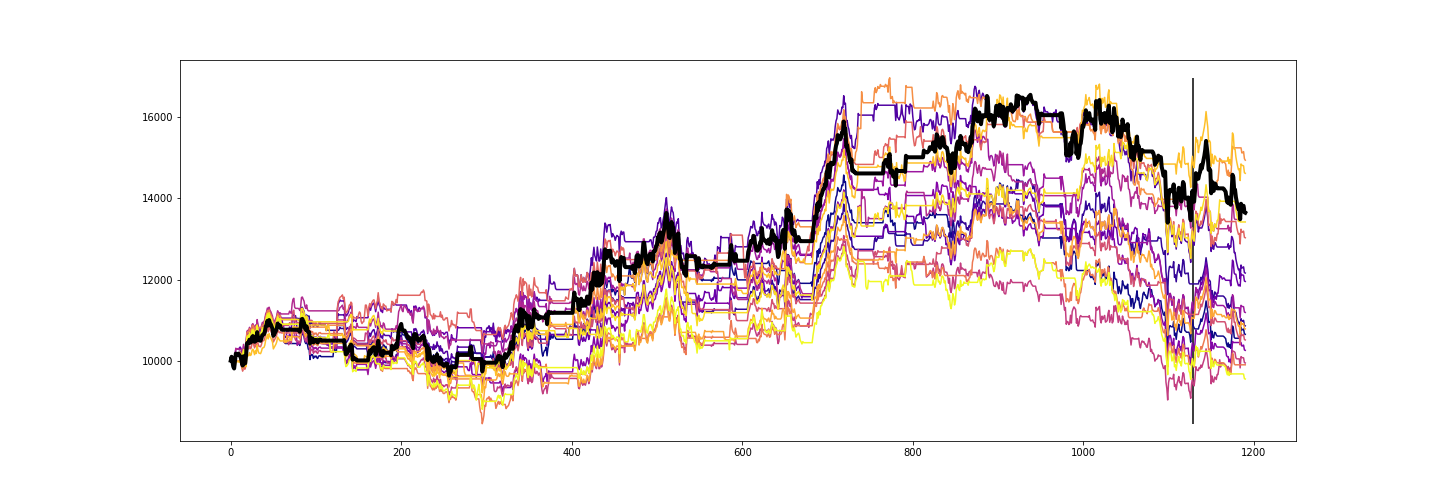
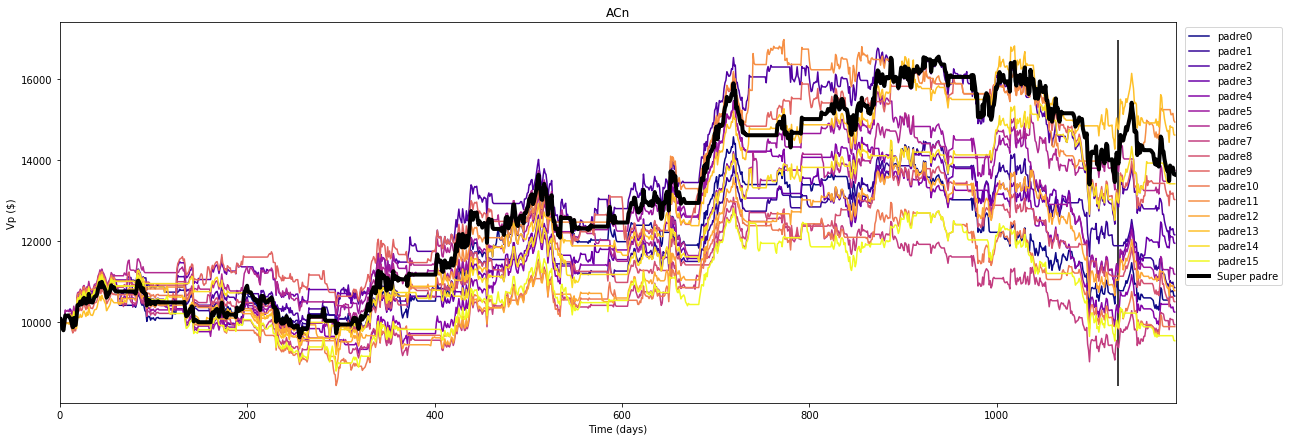
Modificacion para generación de figuras comparativas
- Incorporacion de las funciones creadas a la clase mylib

- Modificacion de simulacion_v2_prueba.py para que no se requiera correr archivos adicionales.

diff --git a/Code/simulacion_v2_prueba.py b/Code/simulacion_v2_prueba.py
@@ -6,26 +6,91 @@ Created on Thu Mar  7 08:53:21 2019
 @author: fh
 """
 
+#Librerias a usar
+import numpy as np
+import pandas as pd
+import matplotlib.pyplot as plt
+import pickle
+from mylib import mylib
+portafolio_sim = mylib.portafolio_sim
+
+
+#%% Cargar resultados anteriores
+
+# Cargar resultados obtenidos del algoritmo genetico
+[p,a,m,hist,m_hist] = pickle.load(open('genetico.sav','rb'))
+
+# Obtención del super padre
+m0 = m.mean(axis=0) 
+lim = .35
+m0[np.abs(m0)<=lim] = 0
+m0[m0< -lim] = -1
+m0[m0>lim] = 1
+
+# Cargar el modelo de clasificacion (KMeans) ya enetrenado
+model_close = pickle.load(open('model_close.sav','rb'))
+
+
+#%% Cargar datos y calcular las situaciones del archivo deseado
+
+# Cargar los datos
+archivo = 'WALMEXn'
+data = pd.read_csv('../Data/'+archivo+'.csv', index_col=0)
+
+# Crear la ventanas para el analisis
+ndias = [5,20,40,125]
+vent = []
+for i in ndias:
+    vent.append(mylib.crear_ventanas(data['Close'],i))
+
+
+# Normalizar las ventas
+cont = len(ndias)    
+for i in range(cont):
+    vent[i] = np.transpose((vent[i].transpose()-vent[i].mean(axis=1))/vent[i].std(axis=1))
+    
+# Clasificacion de las ventanas usando el modelo KMeans entrenado
+clasif_close = []
+for i in range(cont):
+    clasif_close.append(model_close[i].predict(vent[i]))
+
+# Elegir el mismo numero de clasificaciones para las diferentes ventanas
+for i in range(cont):
+    clasif_close[i]=clasif_close[i][len(vent[i])-len(vent[-1]):]
+    
+# Crear el ventor de situaciones
+sit = np.zeros(len(clasif_close[0]))
+for i in range(cont):
+    sit += clasif_close[i]*4**i
+
+# Tomar los precios que se utilizaran para la simulacion
+precio = data.Close[-len(sit):]
+
+#%% Realizar la simulacion de cada padres y el super padre
 # Probar los 16 vectores en una sola acción. 
 # Es requerido haber corrido Simulacion_v2 con return(Vp)
-
 
 n = 16 # número de gráficas
 Vp = np.zeros((n,len(sit)))
 for i in np.arange(len(m)):
     Vp[i,:] = portafolio_sim(precio,sit,m[i])
 Vp_m0 = portafolio_sim(precio,sit,m0)
-#%%    
+#%% Realizar la grafica de los resultados de todas las simulaciones
 Fig = plt.figure(figsize=(20,7))
 cmap = plt.cm.plasma # también se puede plt.get_cmap('plasma')
 colors = cmap(np.linspace(0,1,n))
 for i in np.arange(n):
-    plt.plot(Vp[i,:], c=colors[i,:])
-plt.plot(Vp_m0,'k-',linewidth=4)
+    plt.plot(Vp[i,:], c=colors[i,:],label='padre%d'%i)
+plt.plot(Vp_m0,'k-',linewidth=4,label='Super padre')
+plt.legend(loc=1,bbox_to_anchor=(1.1, 1))
 plt.vlines(1129,Vp.min(),Vp.max())
+plt.xlim(0,len(Vp_m0))
+plt.title(archivo)
+plt.xlabel('Time (days)')
+plt.ylabel('Vp ($)')
 plt.show()
 
-Fig.savefig('../Data/'+archivo+'.pgn')
+Fig.savefig('../Data/'+archivo+'.png',bbox_inches='tight')
 
 
 

diff --git a/Code/mylib.py b/Code/mylib.py
@@ -24,3 +24,48 @@ class mylib:
         except Exception:
             print (stock + ' not found')
             return -1
+    #% Funcion del modelo del portafolio
+    def portafolio(x,u,p,rcom):
+        x_1 = x;
+        vp = x[0]+p*x[1] #Valor presente del portafolios
+        x_1[0] = x[0]-p*u-rcom*p*abs(u) #Dinero disponible
+        x_1[1] = x[1]+u #Acciones disponibles
+        return vp,x_1
+    
+    
+    #% Función para realizar la simulación del portafolio
+    def portafolio_sim(precio,sit,Ud):
+        import numpy as np
+        from mylib import mylib
+        portafolio = mylib.portafolio
+        T = np.arange(len(precio))
+            
+        Vp = np.zeros(T.shape)
+        X  = np.zeros((T.shape[0]+1,2)) 
+        u = np.zeros(T.shape)
+        X[0][0] = 10000
+        rcom = 0.0025
+        
+        for t in T:
+            
+            u_max = np.floor(X[t][0]/((1+rcom)*precio[t])) # Numero maximo de la operacion
+            u_min  = X[t][1] # Numero minimo de la operacion
+            
+            #AC (operacion matricial)
+            if Ud[int(sit[t])]>0:
+                u[t] = u_max*Ud[int(sit[t])]
+            else:
+                u[t] = u_min*Ud[int(sit[t])]
+            
+            Vp[t],X[t+1]=portafolio(X[t],u[t],precio[t],rcom)
+        
+    #    return T,Vp,X,u
+        return Vp
+    
+    def crear_ventanas(data,n_ventana):
+        import numpy as np
+        n_data = len(data)
+        dat_new = np.zeros((n_data-n_ventana+1,n_ventana))
+        for k in np.arange(n_ventana):
+            dat_new[:,k] = data[k:(n_data-n_ventana+1)+k]
+        return dat_new
